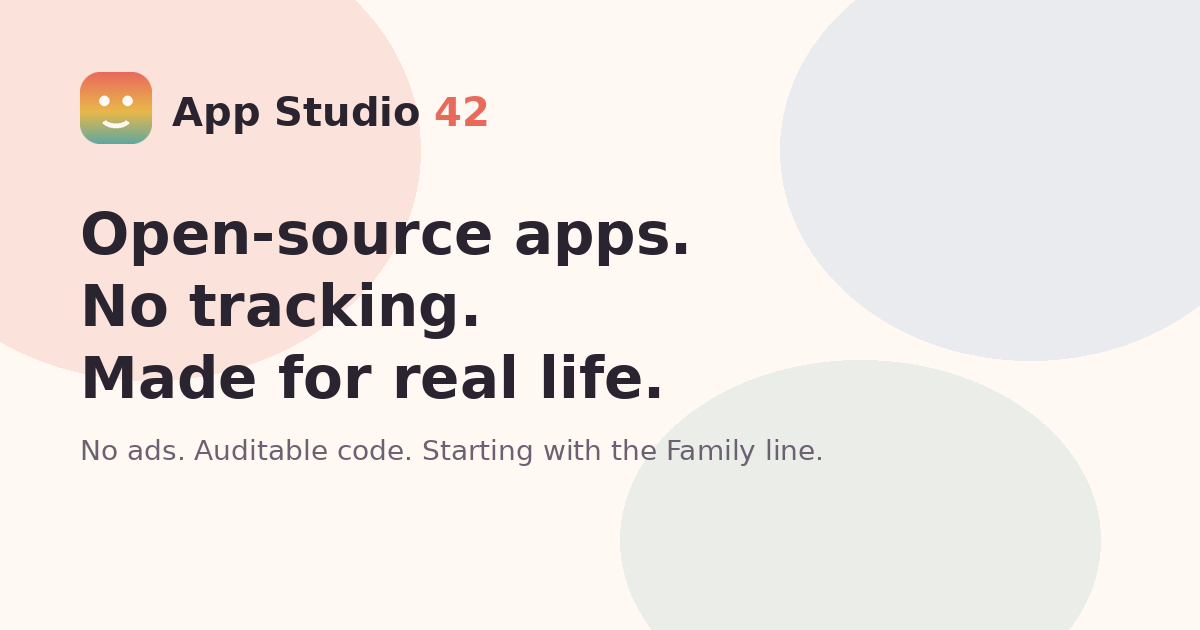
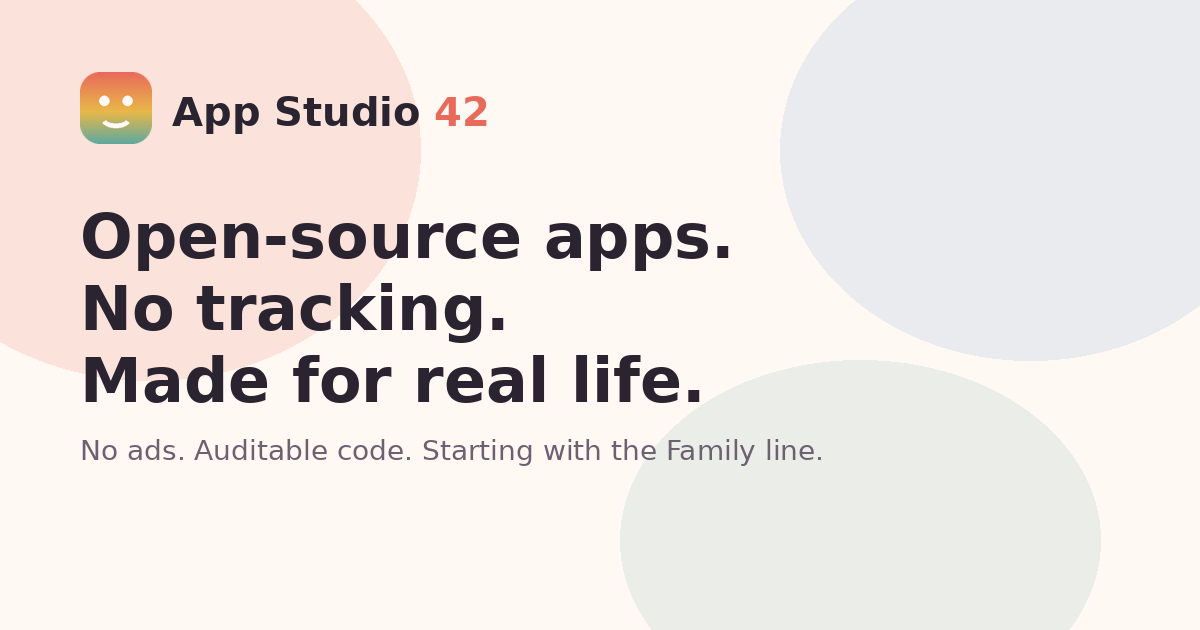
Polish hero layout and add committed review screenshots
Rebalance the desktop hero into two centered columns with a larger KidsHome
device mockup, show the mockup on mobile below the CTAs, use a Chrome-free
hero screenshot, and commit full-page review captures under docs/screenshots.

Changed region(s): [[0.0617, 0.4524, 0.5858, 0.6635], [0.0617, 0.3317, 0.6167, 0.4222]]

diff --git a/src/styles/global.css b/src/styles/global.css
@@ -276,10 +276,10 @@
 
 .display-1 {
   font-family: var(--font-display);
-  font-size: clamp(2.35rem, 6.2vw, 4.6rem);
+  font-size: clamp(1.95rem, 3.6vw, 2.85rem);
   font-weight: 700;
-  line-height: 0.98;
-  letter-spacing: -0.045em;
+  line-height: 1.08;
+  letter-spacing: -0.038em;
   white-space: pre-line;
 }
 
@@ -543,33 +543,38 @@
 
 .hero {
   position: relative;
-  min-height: min(100svh, 56rem);
-  display: grid;
-  align-items: center;
-  padding-top: clamp(6.5rem, 11vw, 8.5rem);
-  padding-bottom: clamp(2.5rem, 5vw, 4rem);
   overflow: hidden;
+  padding-top: 4.75rem;
+  padding-bottom: 1.75rem;
+}
+
+.hero-grid {
+  position: relative;
+  z-index: 1;
+  display: grid;
+  gap: 1.75rem;
+  align-items: center;
 }
 
 .hero-copy {
   position: relative;
   z-index: 1;
-  max-width: 40rem;
+  max-width: 36rem;
 }
 
 .hero-brand {
   font-family: var(--font-display);
-  font-size: clamp(1.15rem, 2.2vw, 1.45rem);
+  font-size: clamp(1.05rem, 1.6vw, 1.25rem);
   font-weight: 750;
   letter-spacing: -0.03em;
   color: var(--color-coral);
-  margin-bottom: 1rem;
+  margin-bottom: 0.7rem;
 }
 
 .hero-line {
   display: block;
   overflow: hidden;
-  padding-bottom: 0.05em;
+  padding-bottom: 0.04em;
 }
 
 .hero-line > span {
@@ -579,64 +584,77 @@
   animation-delay: calc(var(--i) * 80ms + 60ms);
 }
 
-.trust-row {
-  display: flex;
-  flex-wrap: wrap;
-  gap: 0.45rem;
-  margin-top: 1.5rem;
-}
-
-.trust-chip {
-  display: inline-flex;
-  align-items: center;
-  padding: 0.35rem 0.7rem;
-  border-radius: 999px;
-  background: color-mix(in oklab, var(--color-surface) 75%, transparent);
-  border: 1px solid var(--color-line);
-  font-size: 0.8125rem;
-  font-weight: 650;
-  color: var(--color-muted);
+.hero-lead {
+  margin-top: 1rem;
+  max-width: 38ch;
 }
 
 .hero-cta {
   display: flex;
   flex-wrap: wrap;
   gap: 0.75rem;
-  margin-top: 1.75rem;
+  margin-top: 1.35rem;
 }
 
-.phone-stack {
+.hero-visual {
+  position: relative;
+  display: grid;
+  place-items: center;
+  justify-self: stretch;
+  min-height: 0;
+}
+
+.device-glow {
   position: absolute;
-  right: clamp(-1rem, 4vw, 2rem);
-  bottom: clamp(1rem, 4vw, 3rem);
-  width: min(42vw, 360px);
+  width: 108%;
+  height: 92%;
+  border-radius: 50%;
+  background:
+    radial-gradient(circle at 42% 38%, color-mix(in oklab, var(--color-coral) 48%, transparent), transparent 58%),
+    radial-gradient(circle at 72% 62%, color-mix(in oklab, var(--color-mint) 42%, transparent), transparent 60%),
+    radial-gradient(circle at 58% 28%, color-mix(in oklab, var(--color-sky) 40%, transparent), transparent 58%);
+  filter: blur(22px);
+  z-index: 0;
+  pointer-events: none;
+  opacity: 0.95;
+}
+
+.device-frame {
+  position: relative;
   z-index: 1;
-  display: none;
-}
-
-.phone-frame {
-  border-radius: 28px;
+  width: min(100%, 34rem);
+  border-radius: 22px;
   overflow: hidden;
-  border: 3px solid color-mix(in oklab, var(--color-fg) 12%, transparent);
-  box-shadow: var(--shadow-soft);
+  border: 3px solid color-mix(in oklab, var(--color-fg) 10%, transparent);
   background: var(--color-surface);
-  transform: rotate(3deg);
-  animation: float-y 7s ease-in-out infinite;
+  box-shadow:
+    0 28px 60px -28px rgba(42, 36, 48, 0.45),
+    0 10px 24px -16px rgba(232, 106, 91, 0.35);
+  transform: rotate(-2.5deg);
+  animation: float-device 7s ease-in-out infinite;
 }
 
-.phone-frame img {
+.device-frame img {
   width: 100%;
   height: auto;
+  display: block;
 }
 
-.phone-frame--back {
-  position: absolute;
-  inset: auto 12% 8% auto;
-  width: 78%;
-  opacity: 0.72;
-  transform: rotate(-8deg) translate(-18%, -6%);
-  animation: float-y 8.5s ease-in-out infinite reverse;
-  z-index: -1;
+.blob--coral {
+  width: 24rem;
+  height: 24rem;
+  left: -10%;
+  top: 4%;
+  background: var(--color-coral-soft);
+}
+
+.blob--sky {
+  width: 20rem;
+  height: 20rem;
+  right: -6%;
+  top: 22%;
+  background: var(--color-sky-soft);
+  animation-delay: -7s;
 }
 
 /* ==========================================================================
@@ -920,9 +938,9 @@
   100% { transform: translate3d(-4%, 3%, 0) scale(0.96); }
 }
 
-@keyframes float-y {
-  0%, 100% { transform: rotate(3deg) translateY(0); }
-  50% { transform: rotate(3deg) translateY(-10px); }
+@keyframes float-device {
+  0%, 100% { transform: rotate(-2.5deg) translateY(0); }
+  50% { transform: rotate(-2.5deg) translateY(-8px); }
 }
 
 @media (prefers-reduced-motion: reduce) {
@@ -964,12 +982,29 @@
 }
 
 @media (min-width: 900px) {
-  .phone-stack {
-    display: block;
+  .hero {
+    /* Fill the fold on 1280x800 without leaving a tall empty band above the copy. */
+    min-height: calc(100svh - 0.25rem);
+    max-height: 52rem;
+    padding-top: 5.5rem;
+    padding-bottom: 2rem;
+    display: grid;
+    align-items: start;
+  }
+
+  .hero-grid {
+    grid-template-columns: minmax(0, 0.95fr) minmax(0, 1.05fr);
+    gap: clamp(1.25rem, 2.5vw, 2.25rem);
+    align-items: center;
   }
 
   .hero-copy {
-    max-width: 34rem;
+    max-width: 30rem;
+  }
+
+  .device-frame {
+    width: 100%;
+    max-width: 40rem;
   }
 }
 
@@ -984,6 +1019,10 @@
 
   .roadmap-grid {
     grid-template-columns: repeat(4, minmax(0, 1fr));
+  }
+
+  .display-1 {
+    font-size: clamp(2.2rem, 2.7vw, 2.85rem);
   }
 }
 
@@ -1000,7 +1039,7 @@
   .site-header,
   .mobile-menu,
   .atmosphere,
-  .phone-stack {
+  .hero-visual {
     display: none !important;
   }
 

diff --git a/src/data/products.ts b/src/data/products.ts
@@ -79,7 +79,7 @@ export const productLines: ProductLine[] = [
         },
         setupMedia: "/media/kidshome-setup.gif",
         screenshots: [
-          { src: "/screenshots/kidshome/01-kid-home.png", altKey: "kidHome" },
+          { src: "/screenshots/kidshome/hero-kid-home.png", altKey: "kidHome" },
           { src: "/screenshots/kidshome/05-screen-time-settings.png", altKey: "screenTime" },
           { src: "/screenshots/kidshome/07-allowed-apps.png", altKey: "allowedApps" },
           { src: "/screenshots/kidshome/03-pin-entry.png", altKey: "pin" },

diff --git a/src/i18n/pt-BR.ts b/src/i18n/pt-BR.ts
@@ -26,7 +26,7 @@ export const ptBR: SiteContent = {
   ],
   hero: {
     brand: "App Studio 42",
-    title: "Apps open source.\nSem rastreamento.\nFeitos para a vida real.",
+    title: "Apps open source.\nSem rastreamento.\nPara a vida real.",
     tagline:
       "Um estúdio open source de apps para o dia a dia — sem anúncios, sem analytics, com código que você pode auditar.",
     ctaPrimary: "Conhecer KidsHome",

diff --git a/scripts/og-card.html b/scripts/og-card.html
@@ -81,7 +81,7 @@
         </div>
         <div class="name">App Studio <span>42</span></div>
       </div>
-      <h1 id="title">Apps open source.\nSem rastreamento.\nFeitos para a vida real.</h1>
+      <h1 id="title">Apps open source.\nSem rastreamento.\nPara a vida real.</h1>
       <p class="sub" id="sub">Sem anúncios. Código auditável. Começando pela linha Family.</p>
     </div>
     <script>

diff --git a/docs/screenshots/README.md b/docs/screenshots/README.md
@@ -1,0 +1,9 @@
+# Review screenshots
+
+Full-page captures used for PR review. These files are not part of the built site.
+
+| File | Viewport |
+| --- | --- |
+| `full_desktop_pt_br.png` | 1280×800, Portuguese, light |
+| `full_desktop_en_dark.png` | 1280×800, English, dark |
+| `full_mobile_pt_br.png` | 390×844, Portuguese, light |
